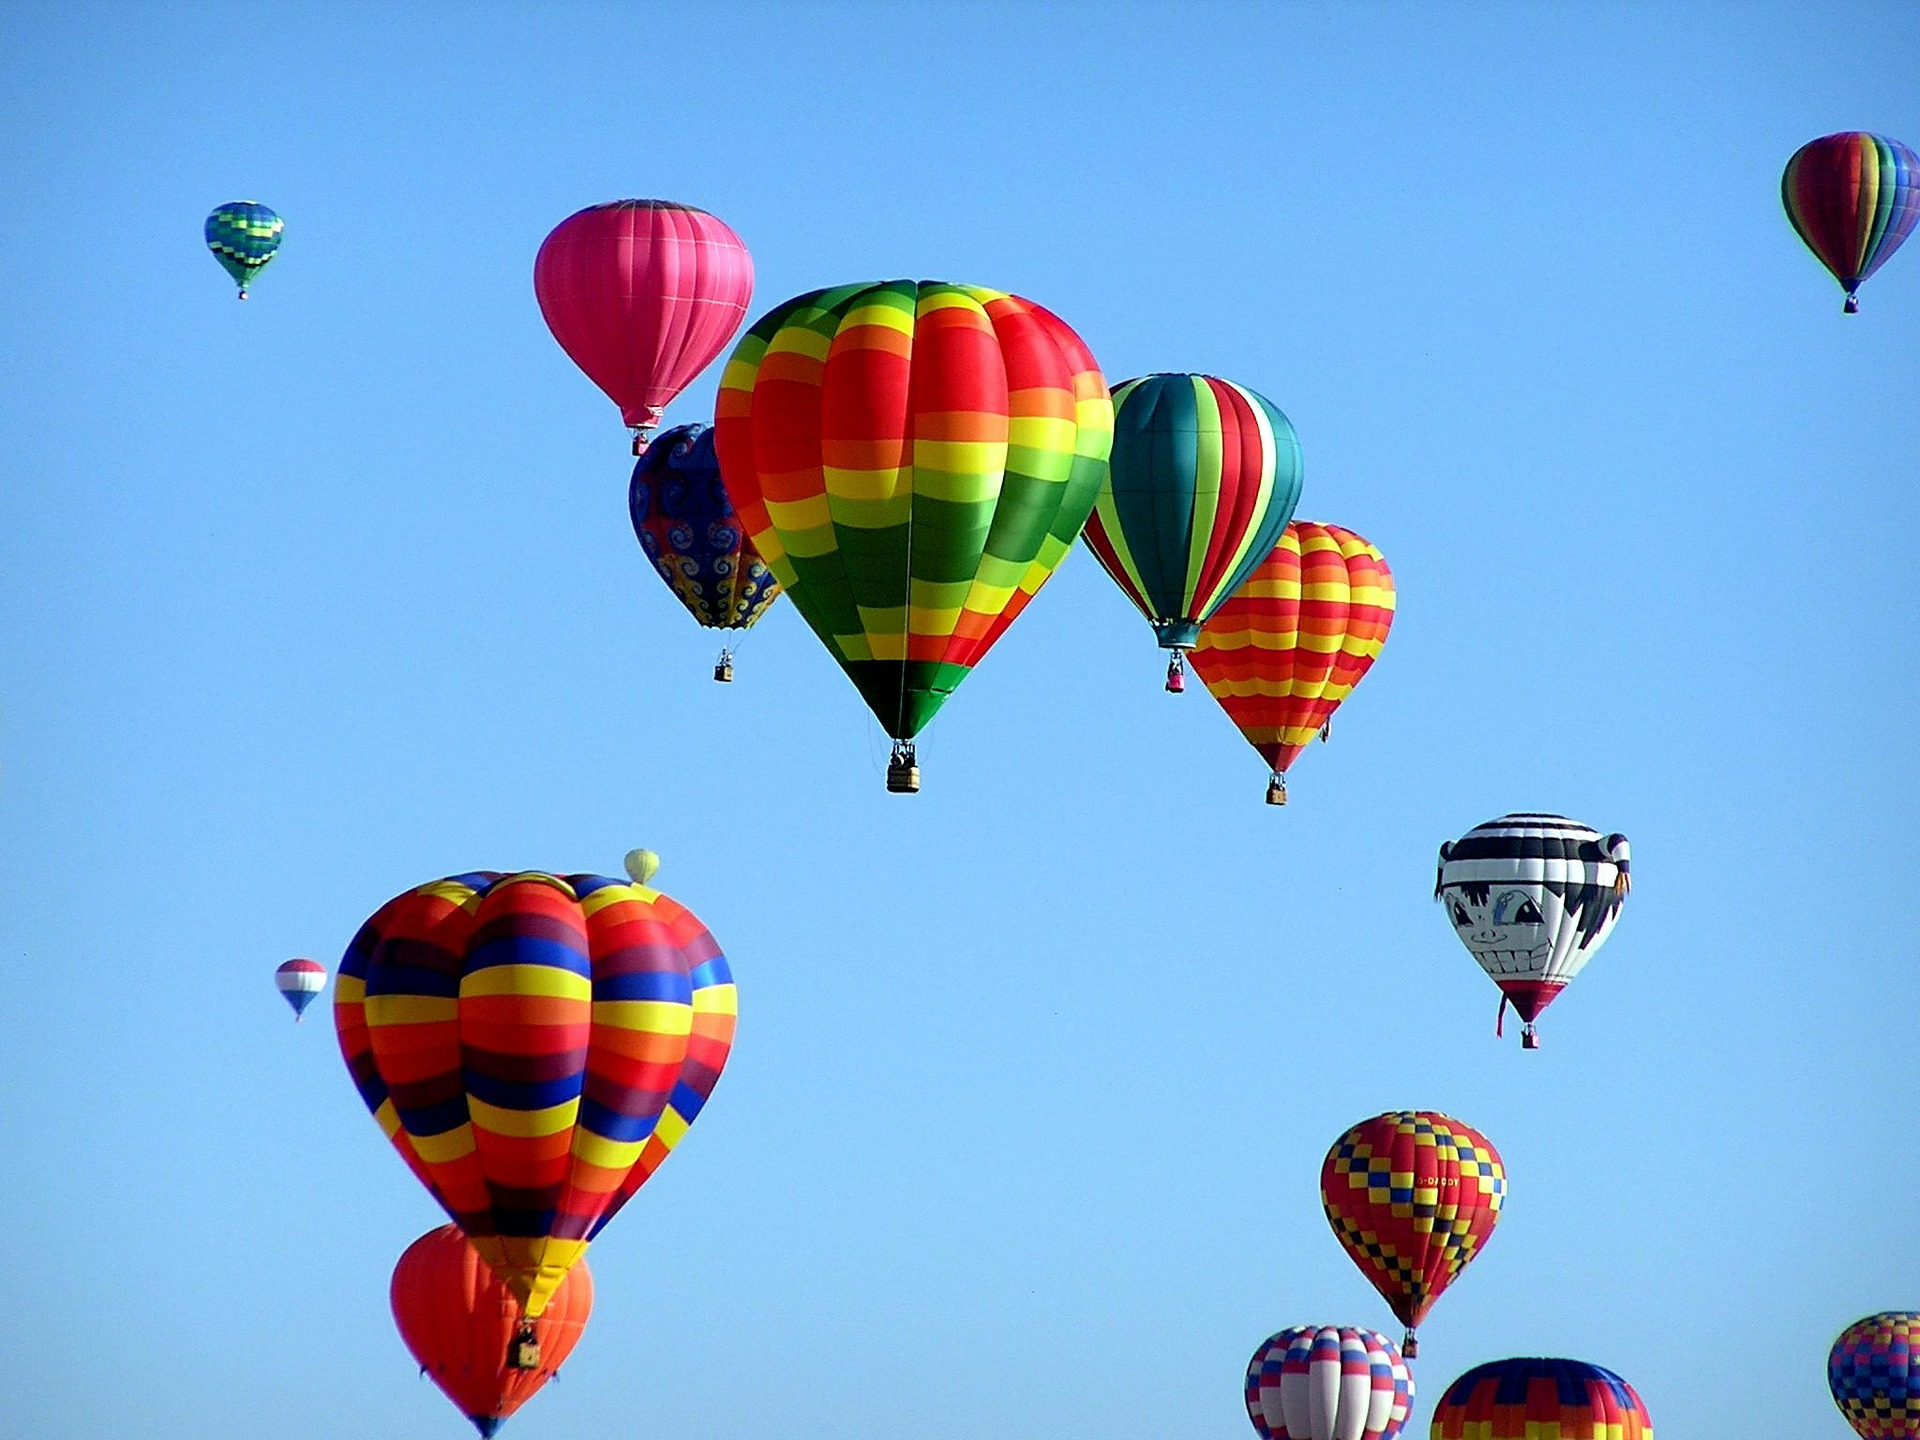
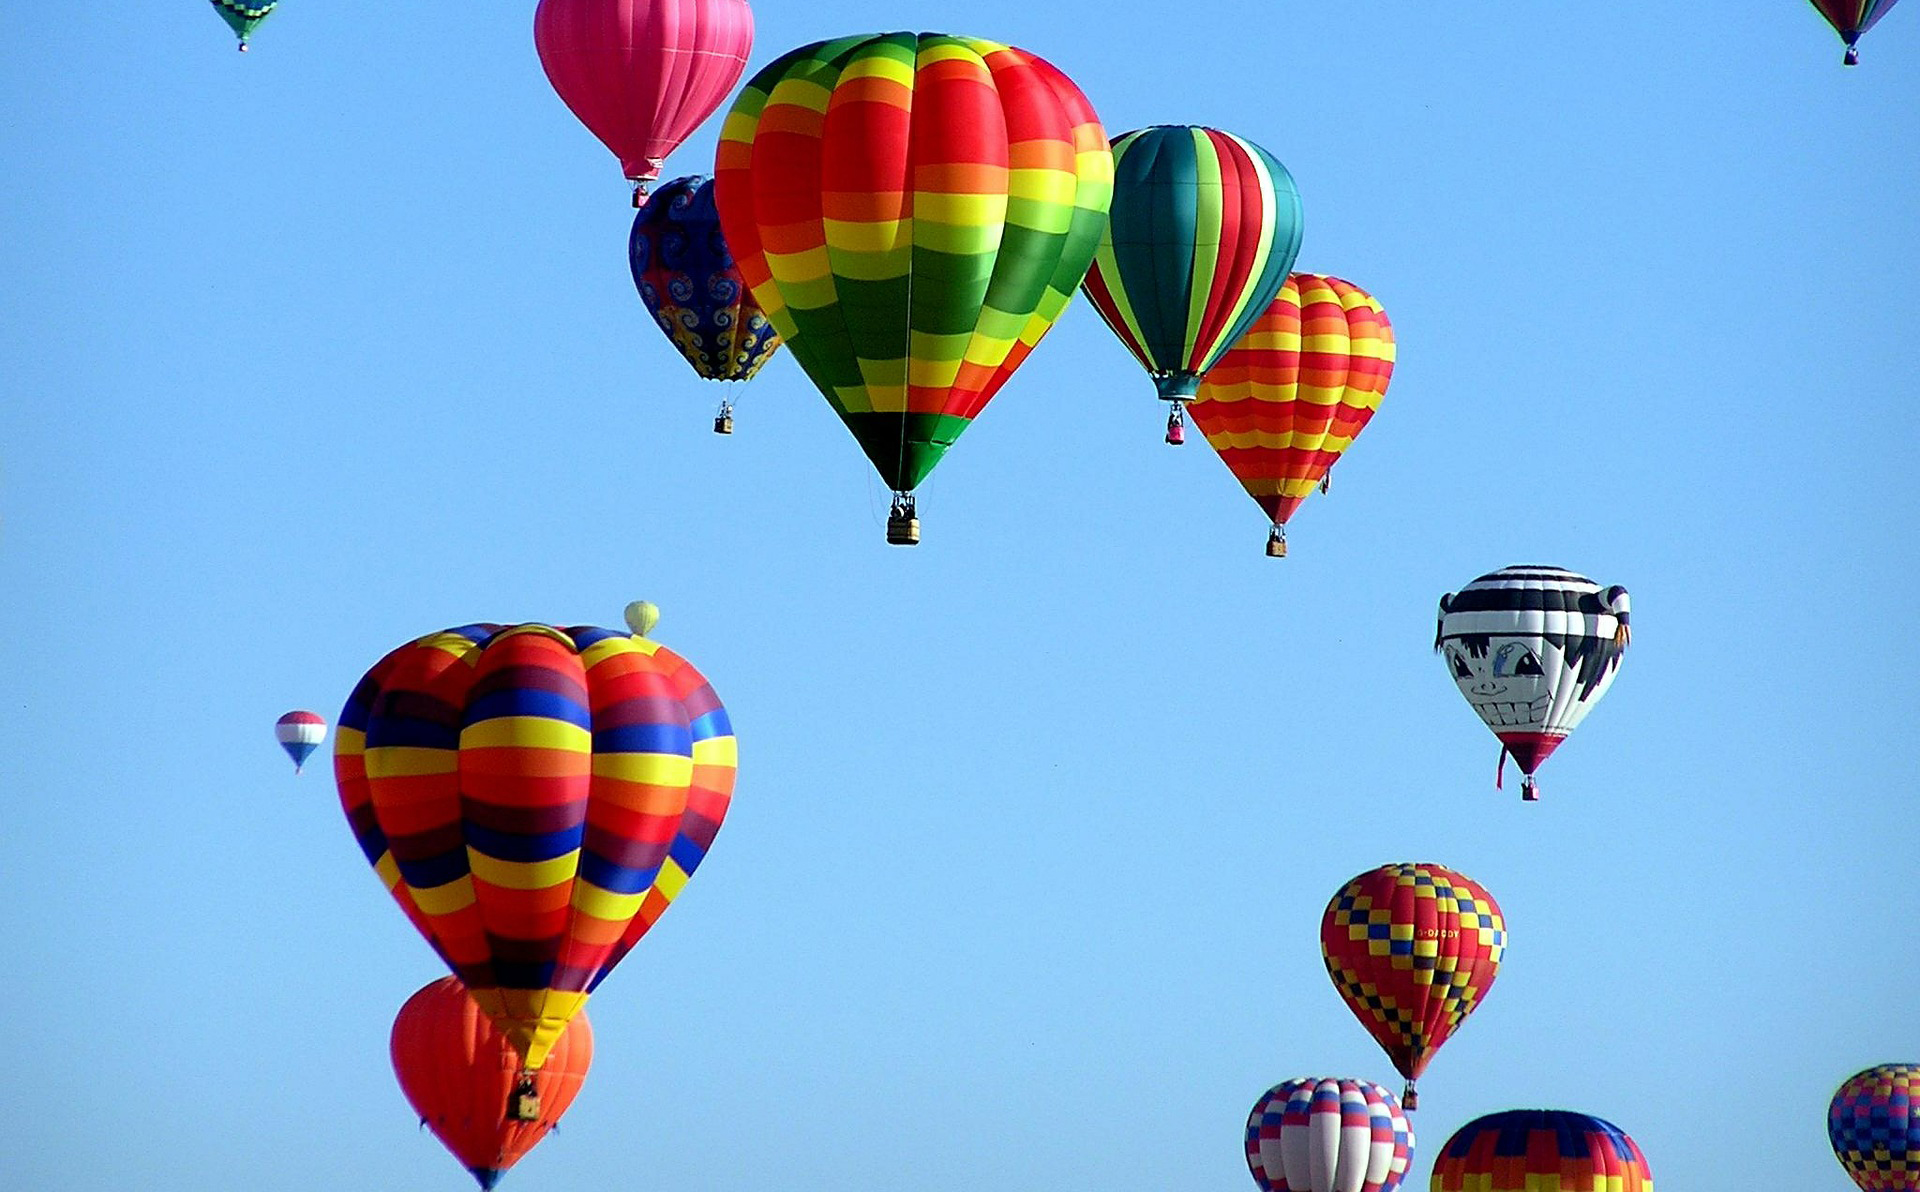
avancement

diff --git a/asset/css/style_evenement.css b/asset/css/style_evenement.css
@@ -103,8 +103,8 @@ section#welcome {
     top: 0;
     background-image: url('../img/bg/ballons.jpg');
     background-repeat: no-repeat;
-    background-size: 100%;
-    height: 854px;
+    background-size: 120%;
+    height: 1000px;
 }
 
 section#welcome h1 {
@@ -128,6 +128,7 @@ section#welcome #container-box h1{
 section#welcome #container {
     margin-top:200px;
     width: 320px;
+    height: 0px;
     padding: 330px;
     margin-left: 150px;
     background: #fff;
@@ -140,7 +141,7 @@ section#welcome #container {
 }
 
 #date p{
-    padding-top: 230px;
+    padding-top: 330px;
 }
 section#welcome #carre1{
     margin-left: -160px;
@@ -197,7 +198,7 @@ section#welcome #carre5{
 section#welcome #container-box p { 
     padding-bottom: 20px;
     text-align: center;
-    margin-top: -200px;
+    margin-top: -300px;
     color: rgb(23, 74, 110);
     font-family: 'Poppins SemiBold', sans-serif;
     font-size: 28px;
